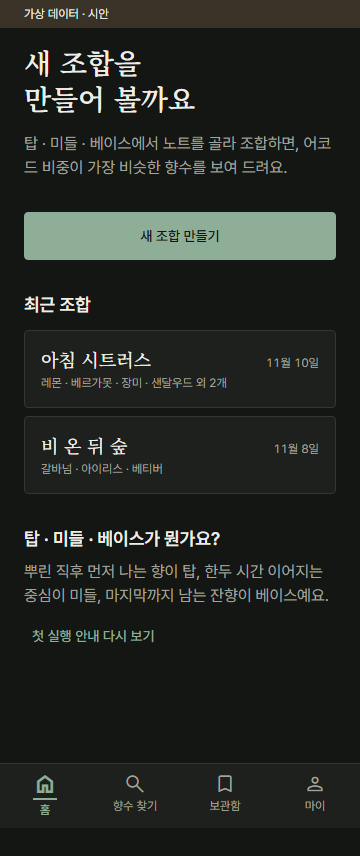
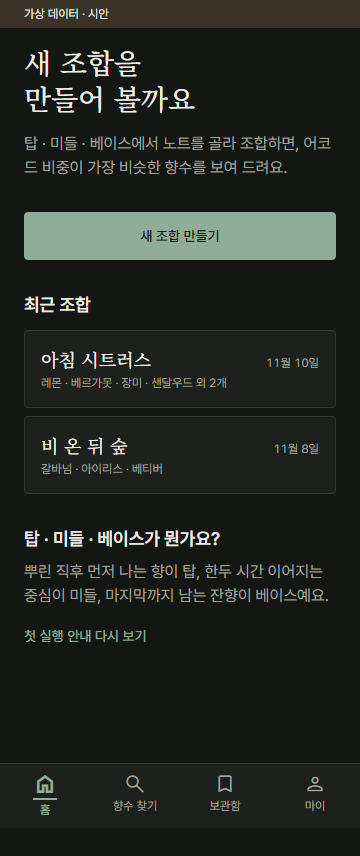
scent-studio: 5-0 시안 검토 반영 — 향수 막대 중립색(compare)·막대별 글자, 누르는 영역 48dp, 단계 표시 정리, 고른 칩 테두리 제거, PC 요약 추천 미리보기, 글꼴 용량 실측·받는 방식, design_rules.md로 이름 변경

diff --git a/apps/scent-studio/docs/design/mock.html b/apps/scent-studio/docs/design/mock.html
@@ -6,26 +6,26 @@
 <title>Perfumer-LAB 시안</title>
 <!-- 시안 전용(5-0). 토큰 값은 app/tailwind.config.js와 같다. 데이터는 모두 가상(누가 봐도 가짜인 이름). -->
 <link rel="preconnect" href="https://fonts.googleapis.com">
-<link href="https://fonts.googleapis.com/css2?family=Noto+Serif+KR:wght@500;600&display=block" rel="stylesheet">
+<link href="https://fonts.googleapis.com/css2?family=Noto+Serif+KR:wght@500&display=block" rel="stylesheet">
 <link href="https://cdn.jsdelivr.net/gh/orioncactus/pretendard@v1.3.9/dist/web/static/pretendard.min.css" rel="stylesheet">
 <link href="https://fonts.googleapis.com/css2?family=Material+Symbols+Outlined:opsz,wght,FILL,GRAD@24,300,0,0&display=block" rel="stylesheet">
 <style>
 :root{
   --bg:#F5F1E8;--surface:#FBF9F4;--surfaceAlt:#EDE7DA;--primary:#1F3D2E;--primaryHover:#2B5240;
   --accent:#B08D57;--accentStrong:#866634;--accentSoft:#E8DCC4;--text:#1C1C1A;--textSub:#62625E;
-  --onPrimary:#F5F1E8;--onAccent:#1C1C1A;--border:#D9D2C3;
+  --onPrimary:#F5F1E8;--onAccent:#1C1C1A;--border:#D9D2C3;--compare:#8C8275;
   --noteTop:#A8B5A0;--noteMiddle:#C9A9A0;--noteBase:#7A5C48;--onNoteTop:#1C1C1A;--onNoteMiddle:#1C1C1A;--onNoteBase:#F5F1E8;
 }
 @media (prefers-color-scheme: dark){:root{
   --bg:#141614;--surface:#1D201D;--surfaceAlt:#262A26;--primary:#8FAE98;--primaryHover:#A3C0AB;
   --accent:#C9A66B;--accentStrong:#C9A66B;--accentSoft:#3A3226;--text:#EFEDE6;--textSub:#A3A39E;
-  --onPrimary:#141614;--onAccent:#141614;--border:#333833;--onNoteTop:#141614;--onNoteMiddle:#141614;--onNoteBase:#EFEDE6;
+  --onPrimary:#141614;--onAccent:#141614;--border:#333833;--compare:#8A8378;--onNoteTop:#141614;--onNoteMiddle:#141614;--onNoteBase:#EFEDE6;
 }}
 *{box-sizing:border-box;margin:0;padding:0}
 html,body{background:var(--bg);color:var(--text);font-family:Pretendard,system-ui,sans-serif;font-size:16px;line-height:24px;font-variant-numeric:tabular-nums}
 .serif{font-family:"Noto Serif KR",serif}
-.display{font-family:"Noto Serif KR",serif;font-size:28px;line-height:36px;font-weight:600}
-.title{font-family:"Noto Serif KR",serif;font-size:22px;line-height:30px;font-weight:600}
+.display{font-family:"Noto Serif KR",serif;font-size:28px;line-height:36px;font-weight:500}
+.title{font-family:"Noto Serif KR",serif;font-size:22px;line-height:30px;font-weight:500}
 .headline{font-size:18px;line-height:26px;font-weight:600}
 .label{font-size:14px;line-height:20px;font-weight:500}
 .caption{font-size:12px;line-height:16px;color:var(--textSub)}
@@ -48,7 +48,7 @@ section{margin-top:32px}
 .btn{display:flex;align-items:center;justify-content:center;min-height:48px;padding:0 20px;border-radius:4px;font-size:14px;line-height:20px;font-weight:500;border:1px solid var(--primary)}
 .btn.pri{background:var(--primary);color:var(--onPrimary)}
 .btn.sec{color:var(--primary);background:transparent}
-.btn.txt{border:0;color:var(--primary);padding:0 8px;justify-content:flex-start}
+.btn.txt{border:0;color:var(--primary);padding:0 12px;margin-left:-12px;min-width:48px;justify-content:flex-start;display:inline-flex}
 .btns{display:flex;gap:8px;flex-wrap:wrap}.btns .btn{flex:1}
 .card{background:var(--surface);border:1px solid var(--border);border-radius:4px;padding:16px}
 .input{display:flex;align-items:center;gap:8px;background:var(--surfaceAlt);border-radius:4px;min-height:48px;padding:0 12px;color:var(--textSub)}
@@ -57,7 +57,7 @@ section{margin-top:32px}
 .chip.middle{background:var(--noteMiddle);color:var(--onNoteMiddle)}
 .chip.base{background:var(--noteBase);color:var(--onNoteBase)}
 .chip.line{background:transparent;border:1px solid var(--border);color:var(--text)}
-.chip.picked{outline:1px solid var(--text)}
+.chip{position:relative}.chip::after{content:"";position:absolute;inset:-6px 0}/* 보이는 36, 눌리는 48 */
 .chip.fam.on{background:var(--accentSoft);border-color:var(--accentStrong)}
 .ochip{display:inline-block;border:1px solid var(--border);border-radius:2px;padding:1px 6px;font-size:12px;line-height:16px;color:var(--textSub);margin:4px 4px 0 0}
 .ticks{display:inline-flex;gap:2px;align-items:flex-end}
@@ -69,12 +69,15 @@ section{margin-top:32px}
 .grade.r{color:var(--textSub);padding:0}
 .bar{height:6px;background:var(--surfaceAlt)}
 .bar>b{display:block;height:6px}
-.bar.me>b{background:var(--primary)}.bar.pf>b{background:var(--accent)}
+.bar.me>b{background:var(--primary)}.bar.pf>b{background:var(--compare)}
+.cmp{display:grid;grid-template-columns:52px 1fr 40px;gap:8px;align-items:center;margin-top:4px}
+.cmp .who{font-size:12px;line-height:16px;color:var(--textSub)}
+.sumgrid{display:block}.preview{display:none}
 .row{display:flex;justify-content:space-between;align-items:baseline;gap:8px}
 .num{text-align:right;font-variant-numeric:tabular-nums;white-space:nowrap}
 .hr{border-top:1px solid var(--border)}
 .seg{display:flex;border:1px solid var(--border);border-radius:4px;overflow:hidden}
-.seg span{flex:1;min-height:40px;display:flex;align-items:center;justify-content:center;font-size:14px;font-weight:500;color:var(--textSub)}
+.seg span{flex:1;min-height:48px;display:flex;align-items:center;justify-content:center;font-size:14px;font-weight:500;color:var(--textSub)}
 .seg span.on{background:var(--primary);color:var(--onPrimary)}
 .layertabs{display:flex;border-bottom:1px solid var(--border)}
 .layertabs span{flex:1;text-align:center;padding:12px 0;min-height:48px}
@@ -109,6 +112,9 @@ section{margin-top:32px}
   .page{max-width:1120px}
   .split{display:grid;grid-template-columns:400px 1fr;gap:32px;align-items:start}
   .split .detail{display:block;position:sticky;top:32px}
+  .sumgrid{display:grid;grid-template-columns:minmax(0,640px) 1fr;gap:40px;align-items:start}
+  .preview{display:block;position:sticky;top:32px}
+  .phone-only{display:none}
   .narrow{max-width:640px}
 }
 </style>
@@ -149,12 +155,12 @@ function home(){return `
  <div class="btn txt" style="margin-top:4px">첫 실행 안내 다시 보기</div></section>`}
 
 function notesScreen(){return `
-<div class="top">${icon("arrow_back")}<h1 class="headline">노트 고르기</h1><span class="caption" style="margin-left:auto">2 / 3단계</span></div>
+<div class="top">${icon("arrow_back")}<div><h1 class="headline">노트 고르기</h1><div class="caption">계열: 시트러스 · 그린</div></div></div>
 <div class="layertabs label"><span class="on">TOP 2</span><span>MIDDLE 2</span><span>BASE 2</span></div>
 <section style="margin-top:16px">
  <div class="input">${icon("search")}<span>노트 이름으로 찾기 (예: 베르가, berg)</span></div>
  <div style="margin-top:16px"><div class="caption">고른 노트 · 층마다 3개까지</div>
-  <span class="chip top picked">✓ 레몬 ${ticks(3)} 강</span><span class="chip top picked">✓ 베르가못 ${ticks(2)} 중</span></div>
+  <span class="chip top">✓ 레몬 ${ticks(3)} 강</span><span class="chip top">✓ 베르가못 ${ticks(2)} 중</span></div>
  <div class="card" style="margin-top:16px"><div class="row"><span class="headline serif">레몬</span><span class="caption">시트러스</span></div>
   <p class="caption" style="margin:4px 0 12px">밝고 시큼한 첫인상. 금방 날아가요.</p>
   <div class="seg" role="radiogroup" aria-label="레몬 강도"><span>약</span><span>중</span><span class="on">강</span></div></div>
@@ -167,7 +173,7 @@ function notesScreen(){return `
 
 function summary(){return `
 <div class="top">${icon("arrow_back")}<h1 class="headline">조합 요약</h1></div>
-<div class="narrow">
+<div class="sumgrid"><div class="narrow">
 <div class="rx">
  <div class="rx-head"><span class="title">아침 시트러스</span><span class="caption">노트 6개</span></div>
  ${["top","middle","base"].map(l=>`<div class="rx-layer"><div class="layer" style="padding-top:8px"><span class="dot" style="background:var(--note${l[0].toUpperCase()+l.slice(1)})"></span>${l.toUpperCase()}</div>
@@ -176,14 +182,18 @@ function summary(){return `
 <section><h2 class="headline">이 조합의 어코드</h2><p class="caption" style="margin-top:4px">메인 테마 추정치예요. 실제로 섞은 향을 예측한 값은 아니에요.</p>
  <div class="stack" style="margin-top:16px">${accords.map(([a,m])=>`<div><div class="row label"><span>${a}</span><span class="num">${m}%</span></div><div class="bar me" style="margin-top:4px"><b style="width:${m*2}%"></b></div></div>`).join('')}</div></section>
 <section><div class="hint">시트러스 느낌이 가장 앞서는 조합이에요. 베이스가 가벼워 잔향은 짧게 느껴질 수 있어요.</div></section>
-<section><div class="btns"><div class="btn pri">추천 보기</div></div><div class="btns" style="margin-top:8px"><div class="btn sec">노트 수정</div><div class="btn sec">저장</div></div></section>
-</div>`}
+<section><div class="btns phone-only"><div class="btn pri">추천 보기</div></div><div class="btns" style="margin-top:8px"><div class="btn sec">노트 수정</div><div class="btn sec">저장</div></div></section>
+</div>${preview()}</div>`}
+
+function preview(){return `<aside class="preview"><h2 class="headline">비슷한 향수 미리보기</h2><p class="caption" style="margin-top:4px">데이터상 유사도 상위 3개</p>
+ <div class="stack" style="margin-top:16px">${P.slice(0,3).map(([b,n,s,g,ac])=>`<div class="card"><div class="row"><span class="caption">${b}</span><span class="num label">${Math.round(s*100)}%</span></div><div class="row" style="margin-top:2px"><span class="serif" style="font-size:18px;line-height:26px;font-weight:500">${n}</span>${grade(g)}</div><div>${ac.map(x=>`<span class="ochip">${x}</span>`).join('')}</div></div>`).join('')}</div>
+ <div class="btns" style="margin-top:16px"><div class="btn pri">추천 전체 보기</div></div></aside>`}
 
 function recList(sel){return `
 <div class="top">${icon("arrow_back")}<h1 class="headline">비슷한 향수</h1></div>
 <p class="caption">아침 시트러스 · 데이터상 유사도 순</p>
 <div style="margin-top:8px" class="hr">${P.map(([b,n,s,g,ac],i)=>`<div class="rec ${sel&&i===0?'sel':''}"><span class="rank">${i+1}</span>
- <div><div class="caption" style="color:var(--textSub)">${b}</div><div class="headline serif" style="font-weight:600">${n}</div><div>${ac.map(a=>`<span class="ochip">${a}</span>`).join('')}</div></div>
+ <div><div class="caption" style="color:var(--textSub)">${b}</div><div class="serif" style="font-size:18px;line-height:26px;font-weight:500">${n}</div><div>${ac.map(a=>`<span class="ochip">${a}</span>`).join('')}</div></div>
  <div style="text-align:right"><div class="num label">${Math.round(s*100)}%</div><div style="margin-top:6px">${grade(g)}</div></div></div>`).join('')}</div>
 <p class="caption" style="margin-top:16px">가상 데이터로 만든 시안이에요.</p>`}
 
@@ -195,8 +205,7 @@ function detail(){const [b,n,s,g]=P[0];return `
  <span class="layer">MIDDLE</span><div><span class="chip middle">장미<span class="match">✓ 내 조합</span></span><span class="chip middle">은방울꽃</span></div>
  <span class="layer">BASE</span><div><span class="chip base">샌달우드<span class="match">✓ 내 조합</span></span><span class="chip base">앰버</span></div></div></section>
 <section><h2 class="headline">어코드 비교</h2>
- <div class="caption" style="margin-top:4px"><span class="dot" style="background:var(--primary)"></span>내 조합 <span class="dot" style="background:var(--accent);margin-left:12px"></span>이 향수</div>
- <div class="stack" style="margin-top:12px">${accords.map(([a,m,p])=>`<div><div class="row label"><span>${a}</span><span class="num">${m}% · ${p}%</span></div><div class="bar me" style="margin-top:4px"><b style="width:${m*2}%"></b></div><div class="bar pf" style="margin-top:2px"><b style="width:${p*2}%"></b></div></div>`).join('')}</div></section>
+  <div class="stack" style="margin-top:12px">${accords.map(([a,m,p])=>`<div style="margin-top:12px"><div class="label">${a}</div><div class="cmp"><span class="who">내 조합</span><div class="bar me"><b style="width:${m*2}%"></b></div><span class="num label">${m}%</span></div><div class="cmp"><span class="who">이 향수</span><div class="bar pf"><b style="width:${p*2}%"></b></div><span class="num label">${p}%</span></div></div>`).join('')}</div></section>
 <section><div class="btns"><div class="btn pri">찜하기</div><div class="btn sec">시향 기록</div></div>
  <div class="btn txt" style="margin-top:8px">추천이 이상해요</div>
  <p class="caption" style="margin-top:8px">데이터: 가상 샘플 · 강도는 함량이 아니라 커뮤니티가 느낀 강도예요.</p></section>`}

diff --git a/apps/scent-studio/app/tailwind.config.js b/apps/scent-studio/app/tailwind.config.js
@@ -1,4 +1,4 @@
-// 색·글꼴·간격 토큰. 기준: docs/design.md 3절(사장 결정 색) + docs/design/DESIGN.md(글꼴·크기·컴포넌트).
+// 색·글꼴·간격 토큰. 기준: docs/design.md 3절(사장 결정 색) + docs/design/design_rules.md(글꼴·크기·컴포넌트).
 // 화면 코드는 이 토큰 이름만 쓴다(색 값·임의 간격 금지). 다크는 시스템 설정을 따른다.
 /** @type {import('tailwindcss').Config} */
 const pair = (light, dark) => ({ DEFAULT: light, dark });
@@ -23,6 +23,7 @@ module.exports = {
         onPrimary: pair('#F5F1E8', '#141614'),
         onAccent: pair('#1C1C1A', '#141614'),
         line: pair('#D9D2C3', '#333833'), // border
+        compare: pair('#8C8275', '#8A8378'), // 어코드 비교의 "이 향수" 막대 (2026-11-11 사장: 골드 대신 중립색)
         noteTop: pair('#A8B5A0', '#A8B5A0'),
         noteMiddle: pair('#C9A9A0', '#C9A9A0'),
         noteBase: pair('#7A5C48', '#7A5C48'),

diff --git a/apps/scent-studio/docs/design/design_rules.md b/apps/scent-studio/docs/design/design_rules.md
@@ -1,0 +1,122 @@
+# Perfumer-LAB 디자인 규칙
+
+작성 2026-11-11 · 디자인팀 · 상태: **방향 OK(2026-11-11), 수정 7가지 반영 → 다시 검토 대기**
+
+> 색·컨셉·모양 원칙은 `docs/design.md` 3절(2026-10-30 사장 결정, 2026-11-11 `compare` 색 추가)이 기준이다. 이 문서는 그 위에 **글꼴·크기·간격·컴포넌트**를 정한다. 둘이 다르면 design.md 3절을 따른다.
+> 토큰은 `app/tailwind.config.js` 한 곳에 있다. 화면 코드는 토큰 이름만 쓴다(색 값·임의 간격 금지).
+> 시안: `docs/design/mock.html`(같은 토큰으로 그린 정적 시안), 캡처 `docs/design/shots/`(`node docs/design/capture.mjs [화면-폭-모드 …]`).
+> **파일 이름:** 처음에는 `docs/DESIGN.md`였다. 그런데 Windows는 대소문자를 구분하지 않아 `docs/design.md`(설계 문서)와 같은 파일이 된다. 그래서 `docs/design/design_rules.md`로 바꿨다(2026-11-11 사장 지시).
+
+## 0. 2026-11-11 시안 검토 반영 (사장)
+1. 어코드 비교에서 "이 향수" 막대를 골드에서 **중립 회갈색 `compare`**로 바꿨다. 골드는 "매우 비슷" 배지에만 쓴다(화면당 1~2곳).
+2. 비교 숫자는 색 없이도 읽히게 막대마다 **"내 조합 44%"·"이 향수 38%"**로 따로 쓴다.
+3. 누르는 영역은 **48dp 이상**이다(안드로이드 48, iOS 44를 함께 만족). 노트 칩·글자 버튼은 글자 크기를 그대로 두고 눌리는 영역만 키운다(6절).
+4. 노트 고르기의 "2 / 3단계"는 TOP 탭과 헷갈려서 뺐다. 대신 제목 아래에 **고른 계열**을 보여 준다("계열: 시트러스 · 그린").
+5. 고른 노트 칩의 진한 테두리를 뺐다. 체크 표시와 강도 글자로 구분한다.
+6. 다크 모드 보조 글씨(`textSub` `#A3A39E`) 대비를 확인했다: bg 7.2 · surface 6.5 · surfaceAlt 5.8 · accentSoft 4.98 → **모두 4.5:1 이상이라 그대로 둔다**. 라이트는 bg 5.4 · surface 5.8 · surfaceAlt 5.0 · accentSoft 4.51.
+7. PC 조합 요약 오른쪽에 **추천 미리보기(상위 3개)**를 둔다(4절).
+
+## 1. 한 가지 강조: "조합 처방전"
+- 이 앱에서 기억에 남는 것은 **하나**다. 조합 요약을 조향사의 처방전처럼 보여 준다.
+  - 층(TOP · MIDDLE · BASE)마다 한 줄씩 쓴다.
+  - 노트 이름은 세리프로 쓴다.
+  - 강도는 짧은 세로 눈금(1~3개)과 글자(약·중·강)를 함께 쓴다.
+- 다른 화면은 조용하게 둔다: 크림 바탕, 가는 선, 넉넉한 여백. 골드는 화면마다 1~2곳만 쓴다(매우 비슷 배지, 선택됨).
+
+## 2. 글꼴
+| 역할 | 글꼴 | 굵기 | 라이선스 | 쓰는 곳 |
+|---|---|---|---|---|
+| 제목(세리프) | **Noto Serif KR** | **500 하나만** | OFL | 화면 제목, 향수 이름, 처방전의 노트 이름 |
+| 본문(고딕) | **Pretendard** | 400·500·600 | OFL | 본문, 버튼, 라벨, 숫자 |
+
+- 세리프는 용량 때문에 굵기를 **하나(500)**만 쓴다(2-1). 제목은 크기로 위계를 만든다.
+- 숫자는 Pretendard 고정폭 숫자(`tabular-nums`)로 쓴다.
+- 영문 층 라벨(TOP · MIDDLE · BASE)만 대문자에 넓은 자간(0.12em)을 쓴다(design.md 3-4). 다른 라벨은 대문자로 쓰지 않는다.
+
+### 2-1. 글꼴 용량과 받는 방식 (2026-11-11 실측)
+| 파일 | 원본 | 서브셋(KS X 1001 한글 2,350자 + 라틴·문장부호) |
+|---|---|---|
+| Noto Serif KR (가변 → 굵기 하나로 고정) | ttf 23.8MB · 굵기 하나 woff2 3.1~3.2MB | **woff2 355KB(500) / 333KB(600)** · ttf 1.43MB |
+| Pretendard (굵기 하나) | woff2 766KB · otf 1.57MB | **woff2 267KB**(공식 subset) · otf 351KB |
+
+- **웹(Expo 웹·GitHub Pages)**:
+  - Pretendard는 **공식 "동적 서브셋"**(`pretendard-dynamic-subset`, 글자 범위별로 92조각, `unicode-range`)을 **우리 서버에 같이 올려** 쓴다. 브라우저가 화면에 나온 글자의 조각만 받으므로 첫 화면은 보통 100~200KB다.
+  - Noto Serif KR은 **500 하나를 2,350자 서브셋 woff2(355KB)**로 만들어 같이 올린다.
+  - 둘 다 `font-display: swap`으로 쓴다. 받기 전에는 시스템 글꼴로 먼저 보여 준다.
+  - 외부 글꼴 CDN(구글 폰트 등)은 쓰지 않는다. 오프라인(E2)에서도 캐시된 글꼴을 쓰고, 방문자 정보를 바깥에 보내지 않기 위해서다.
+- **앱(안드로이드·아이폰, `expo-font`)**:
+  - 서브셋 ttf/otf를 앱에 넣는다. Pretendard 3굵기 약 1.05MB + Noto Serif KR 500 1.43MB = **약 2.5MB**.
+  - 앱에서는 woff2를 쓸 수 없다.
+- **2,350자 밖 글자**(드문 한글 "똠·햏" 등, 다른 문자)는 시스템 글꼴로 대신 보인다. 노트·화면 문구는 모두 2,350자 안이다(빌드 때 검사).
+- 서브셋 만들기: `fonttools`(`pyftsubset`) 스크립트 `app/scripts/build-fonts.py`(5-2에서). 원본 글꼴과 OFL 라이선스 파일을 `app/assets/fonts/`에 함께 둔다. 오픈소스 라이선스 화면(K5)에도 적는다.
+- 시안 `mock.html`은 확인용이라 CDN을 쓴다(앱 코드와 무관).
+
+## 3. 글자 크기 (dp = 웹 px)
+| 토큰 | 크기 / 줄 높이 | 굵기 | 글꼴 | 쓰는 곳 |
+|---|---|---|---|---|
+| `display` | 28 / 36 | 500 | 세리프 | 화면 맨 위 제목(홈, 요약) |
+| `title` | 22 / 30 | 500 | 세리프 | 향수 이름(상세), 처방전 제목 |
+| `headline` | 18 / 26 | 600 | 고딕 | 절 제목 |
+| `body` | 16 / 24 | 400 | 고딕 | 본문, 목록 |
+| `label` | 14 / 20 | 500 | 고딕 | 버튼, 칩, 탭, 입력창 |
+| `caption` | 12 / 16 | 400 | 고딕 | 보조 설명, 출처 (가장 작은 글자) |
+| `layer` | 12 / 16 | 600, 자간 0.12em, 대문자 | 고딕 | TOP · MIDDLE · BASE만 |
+
+- 한 줄은 폰에서 화면 폭, PC에서 **최대 640px**다.
+- 글자 크기 200%: 모든 글자는 시스템 배율을 따른다. 줄이 넘치면 내려가고, 영역은 세로로 스크롤되고, 버튼은 높이를 늘린다(5-8에서 실제 화면으로 확인).
+
+## 4. 간격과 배치
+- 8dp 단위: 4 · 8 · 12 · 16 · 24 · 32 · 48.
+- 폰 좌우 여백은 **24**다. 절 사이 32, 절 안 16, 줄 사이 8.
+- **폰(1023 이하)**: 하단 탭 4개(홈 · 향수 찾기 · 보관함 · 마이).
+- **PC(1024 이상)**: 왼쪽 메뉴(폭 240). 본문 최대 폭 1120.
+  - 목록 → 상세는 **나란히**(목록 400 + 상세 나머지, 승인 H5).
+  - **조합 요약은 두 칸**이다: 왼쪽 처방전·어코드(최대 640), 오른쪽 **추천 미리보기 상위 3개**(카드 3장 + [추천 전체 보기]). 폰에서는 미리보기 없이 [추천 보기] 버튼만 둔다.
+- 정렬: 글자는 왼쪽, 숫자(점수·%)는 오른쪽. 가운데 정렬은 빈 화면 문장 한 줄에만.
+
+## 5. 모양
+- 모서리: 카드·시트·입력창·버튼 **4**, 칩 **2**. 알약 모양 없음.
+- 선: 1dp `line`. 그림자는 시트에만 아주 옅게 한 단계.
+- 아이콘: Material Symbols Outlined, 굵기 300, 크기 24. 채운 아이콘 없음.
+- 움직임: 시트·패널 200ms 슬라이드, 화면 전환 150ms 페이드. "움직임 줄이기" 설정이면 없앤다.
+
+## 6. 컴포넌트
+**누르는 영역 규칙(모두):** 눌리는 곳은 **가로·세로 48dp 이상**이다. 보이는 크기가 더 작으면(칩 36, 글자 버튼) 앱은 `hitSlop`, 웹은 투명한 바깥 여백(`::after`)으로 영역만 키운다. 이웃한 누르는 곳끼리 영역이 겹치지 않게 칩 사이를 12dp 띄운다.
+
+| 이름 | 생김새 | 상태 |
+|---|---|---|
+| **버튼(주)** | `primary` 바탕, `onPrimary` 글자, 높이 48, 모서리 4 | 누름 `primaryHover` · 끔 `surfaceAlt`+`inkSub` · 작업 중 "저장하는 중" |
+| **버튼(보조)** | 투명 바탕, 1dp `primary` 테두리, `primary` 글자, 높이 48 | 같음 |
+| **글자 버튼** | `primary` 글자(밑줄 없음). 보이는 건 글자뿐, **눌리는 영역은 높이 48 · 좌우 12 여백**("추천이 이상해요", "첫 실행 안내 다시 보기") | 포커스 2dp `accentStrong` 테두리 |
+| **노트 칩** | 층 색 바탕(`noteTop`·`noteMiddle`·`noteBase`)과 그 위 글자색, 모서리 2. **보이는 높이 36, 눌리는 높이 48** | 고름: 앞에 체크 ✓ + 강도 눈금·글자(**테두리 없음**) |
+| **강도 표시** | 세로 눈금 3칸(2×12, 간격 2). 약 1 · 중 2 · 강 3칸이 칠해지고 옆에 "약·중·강" 글자 | 화면 읽기: "레몬, 강" |
+| **강도 고르기** | 3칸 구분 버튼(약·중·강), 칸마다 높이 48 | 고름: `primary` 바탕 |
+| **계열 칩** | 테두리만(1dp `line`), 계열 색 없음 | 고름: `accentSoft` 바탕 + `accentStrong` 테두리 + 체크 |
+| **어코드 칩** | 테두리만, `caption` 크기(누르지 않음) | — |
+| **어코드 막대(비교)** | 어코드 이름 한 줄 아래에 막대 두 줄. 줄마다 **[누구 라벨] [막대 6dp] [숫자%]**: "내 조합" `primary` 막대, "이 향수" **`compare`** 막대. 각진 끝 | 화면 읽기: "시트러스, 내 조합 44퍼센트, 이 향수 38퍼센트" |
+| **어코드 막대(내 조합만)** | 요약 화면: 이름·숫자 한 줄 + `primary` 막대 | — |
+| **등급 표시** | 매우 비슷: `accent` 바탕 + `onAccent` 글자(**화면의 골드는 여기**) · 비슷: 1dp `accentStrong` 테두리+글자 · 참고: `inkSub` 글자만 | 글자가 늘 함께 |
+| **카드** | `surface`, 1dp `line`, 모서리 4, 안쪽 16 | 누름 `surfaceAlt` |
+| **입력창(검색)** | `surfaceAlt`, 높이 48, 모서리 4, 왼쪽 선 아이콘 | 포커스 1dp `primary` 테두리 |
+| **하단 탭** | `surface`, 위 1dp 선, 탭 4개(아이콘 + `label`), 탭마다 높이 56 | 선택: `primary` 글자 + 굵게 + 아이콘 아래 2dp 선 |
+| **층 탭(노트 고르기)** | TOP · MIDDLE · BASE + 고른 개수, 높이 48 | 선택: 아래 2dp `primary` 선 |
+| **시트(폰)/패널(PC)** | 노트 카드·확인 창 | 바깥 누르면 닫힘, 닫기 버튼 |
+| **서버 안내 줄** | 화면 위 `accentSoft` 띠: "서버를 깨우는 중이에요. 30초쯤 걸릴 수 있어요" + [다시 시도] | 3초 넘으면(E4) |
+
+## 7. 네 가지 상태 (모든 화면)
+- **불러오는 중**: 내용 자리에 `surfaceAlt` 막대(움직임 없음)와 한 줄 설명을 둔다.
+- **내용 있음**: 위 규칙대로 보여 준다.
+- **비어 있음**: 차분한 문장 한 줄과 버튼 하나. 예: "저장한 조합이 아직 없어요." + [새 조합 만들기]
+- **오류**: 무엇이 안 됐는지와 할 일을 쓴다. 예: "인터넷 연결이 끊겨 저장하지 못했어요. 연결되면 다시 눌러 주세요." + [다시 시도]. 사과하는 말은 넣지 않는다.
+
+## 8. 문구
+- 존댓말로 짧게 쓴다. 버튼은 하는 일을 그대로 말한다: [추천 보기], [저장], [찜하기]/[찜 해제], [계정 삭제]. 결과도 같은 말로 알린다("저장했어요").
+- 단정하지 않는다: "데이터상 유사도", "메인 테마 추정치". 이모지·느낌표·유행어는 쓰지 않는다.
+- 데이터 출처: 실제 카탈로그는 "Parfumo · Fragrantica(Decant)"라고 쓴다. 샘플은 화면 위에 "가상 데이터"를 표시한다(`plan_b_portfolio.md` 1-7).
+
+## 9. 접근성 확인
+- 글자 대비 AA: 토큰 표의 짝만 쓴다. 0절 6번 측정값을 따른다.
+- 그래픽(막대·칩)은 3:1 이상이다. `compare` 막대는 막대 바탕(`surfaceAlt`) 대비 3.1:1(라이트)·3.9:1(다크).
+- 누르는 곳 48dp 이상(6절). 포커스 테두리 2dp `accentStrong`.
+- 색만으로 뜻을 전하지 않는다: 선택은 체크로, 등급·강도·막대 주인은 글자로 함께 나타낸다.
+- 캡처: 라이트·다크 × 360·412·1280 × 글자 200%(화면별, 5-2부터 실제 화면으로).

diff --git a/apps/scent-studio/docs/design.md b/apps/scent-studio/docs/design.md
@@ -59,7 +59,7 @@ flowchart LR
 | 넓은 화면(PC) | 프론트엔드팀 | 화면 너비 1024px 이상이면 하단 탭 → 왼쪽 메뉴, 목록·상세 나란히, 노트 카드는 옆 패널(같은 컴포넌트, 배치만 다름) |
 | 오프라인 | 프론트엔드팀 | 폰 앱: 카탈로그를 앱에 넣음. 웹: 내보낸 정적 파일과 카탈로그를 서비스 워커로 캐시(Workbox) → 한 번 연 뒤 인터넷 없이 됨. "홈 화면에 추가"용 웹 앱 매니페스트 |
 | 로그인 | 프론트엔드팀 + 백엔드팀 | 앱: Supabase JS 클라이언트(Auth만) + 구글 OAuth(PKCE, 웹·폰 같은 코드). 로그인 방법을 목록으로 두어 앱스토어 때 애플 로그인(Supabase 지원)을 한 줄 더하면 되게 한다. 서버: Spring Security가 Supabase JWT를 공개키(JWKS)로 검증 |
-| 디자인 | 디자인팀 | `docs/design/DESIGN.md` + **NativeWind**(React Native용 Tailwind). 색·간격은 `tailwind.config.js` 토큰 한 곳. 시안 캡처는 Playwright로 웹 화면을 폰·PC 크기로 찍음 |
+| 디자인 | 디자인팀 | `docs/design/design_rules.md` + **NativeWind**(React Native용 Tailwind). 색·간격은 `tailwind.config.js` 토큰 한 곳. 시안 캡처는 Playwright로 웹 화면을 폰·PC 크기로 찍음 |
 | 추천 엔진 | 백엔드팀 | **`app/src/engine/` 순수 TypeScript, 의존성 없음.** 8절 명세 그대로, Python 참조 엔진이 만든 같은 골든 파일로 결과가 같은지 확인. 1차에는 기기만 추천을 계산한다 |
 | 서버 | 백엔드팀 | Java 21 + Spring Boot 4, Spring Web, Spring Data JPA, Flyway, Spring Security(OAuth2 Resource Server), springdoc-openapi |
 | DB · 로그인 | 백엔드팀 | Supabase를 **Postgres 호스팅과 구글 로그인으로만** 사용. 앱은 DB에 직접 붙지 않는다(12절) |
@@ -95,7 +95,7 @@ flowchart LR
 
 ## 3. 디자인 방향과 앱 화면 원칙
 > 2026-10-30 사장 결정: 사장이 준 컬러 시스템을 쓴다. Claude가 대비를 계산해 고친 4곳과 "계열 색 없음"은 사장이 OK했다.
-> 디자인팀은 4단계 시작에 이 절을 바탕으로 `docs/design/DESIGN.md`(글꼴 크기·간격·컴포넌트 규칙)를 쓰고 시안 캡처로 검토받는다. **이 절과 DESIGN.md가 다르면 이 절이 기준이다.**
+> 디자인팀은 4단계 시작에 이 절을 바탕으로 `docs/design/design_rules.md`(글꼴 크기·간격·컴포넌트 규칙)를 쓰고 시안 캡처로 검토받는다. **이 절과 DESIGN.md가 다르면 이 절이 기준이다.**
 
 ### 3-1. 컨셉
 **니치 향수 브랜드 감성(딥티크·조 말론 계열).** 크림 바탕 + 딥 그린 기준색 + 골드 포인트 하나. 색은 적게, 채도는 낮게.
@@ -111,7 +111,7 @@ flowchart LR
 | surfaceAlt | `#EDE7DA` 진한 크림 | `#262A26` | 구분 영역, 입력창 |
 | primary | `#1F3D2E` 딥 포레스트 그린 | `#8FAE98` | 주요 버튼, 헤더, **내 조합** 막대 |
 | primaryHover | `#2B5240` | `#A3C0AB` | 누르는 중 |
-| accent | `#B08D57` 앤티크 골드 | `#C9A66B` | **칠하는 용도만**: 선택됨 배경, "가장 비슷한 향수", **향수** 막대 |
+| accent | `#B08D57` 앤티크 골드 | `#C9A66B` | **칠하는 용도만**: 선택됨 배경, "가장 비슷한 향수"(매우 비슷 배지). ~~향수 막대~~ → compare(2026-11-11) |
 | accentStrong ★ | `#866634` | `#C9A66B` | 골드 **글자·아이콘·선택 테두리** (라이트에서 원래 골드는 대비 2.7:1이라 따로 둠) |
 | accentSoft | `#E8DCC4` | `#3A3226` | 골드 배경 틴트 |
 | text | `#1C1C1A` | `#EFEDE6` | 본문 |
@@ -119,19 +119,20 @@ flowchart LR
 | onPrimary | `#F5F1E8` | `#141614` | primary 위 글자 |
 | onAccent ★ | `#1C1C1A` | `#141614` | accent 위 글자 (다크에서 밝은 글자는 2.0:1이라 늘 진한 글자) |
 | border | `#D9D2C3` | `#333833` | 구분선 (장식용. 이것만으로 뜻을 전하지 않음) |
+| compare ★★ | `#8C8275` 회갈색 | `#8A8378` | **어코드 비교의 "이 향수" 막대**(2026-11-11 사장 결정: 골드 대신 중립색. 막대 바탕 대비 3.1·3.9:1) |
 | noteTop | `#A8B5A0` 세이지 | 같음 | 탑 칩·그래프만 |
 | noteMiddle | `#C9A9A0` 더스티 로즈 | 같음 | 미들 칩·그래프만 |
 | noteBase | `#7A5C48` 우드 브라운 | 같음 | 베이스 칩·그래프만 |
 | onNoteTop / onNoteMiddle ★ | `#1C1C1A` | `#141614` | 탑·미들 칩 위 글자 (8:1 안팎) |
 | onNoteBase ★ | `#F5F1E8` | `#EFEDE6` | 베이스 칩 위 글자 (5:1 이상) |
 
-★ = Claude가 대비 계산(WCAG)으로 더하거나 고친 것. 나머지는 사장이 준 값 그대로다.
+★ = Claude가 대비 계산(WCAG)으로 더하거나 고친 것. ★★ = 2026-11-11 시안 검토에서 사장 지시로 더한 것. 나머지는 사장이 준 값 그대로다.
 
 ### 3-3. 색 쓰는 규칙
 - 화면 비율: 배경·서피스 70% · primary 20% · accent 10% 이하
 - 골드는 "선택됨", "가장 비슷한 향수" 같은 핵심 1~2곳에만 쓴다
 - **계열 색은 두지 않는다.** 계열(시트러스, 우디 …)은 늘 글자로 보여 준다
-  - 어코드 비교 막대: 내 조합 = primary, 향수 = accent. 두 색만 쓰고, 막대마다 어코드 이름과 %를 글자로 함께 쓴다
+  - 어코드 비교 막대: 내 조합 = primary, 향수 = **compare(회갈색)**. 막대마다 "내 조합 44%"·"이 향수 38%"처럼 **누구의 값인지 글자로** 함께 쓴다(색 없이도 읽힘). 2026-11-11 사장 결정: 골드는 "매우 비슷" 배지에만 써서 화면당 1~2곳 규칙을 지킨다
   - 향수 카드: 브랜드·이름 + 상위 어코드 3개를 글자 칩(테두리만 있는 칩)으로 보여 준다
 - 노트 색 3개는 탑·미들·베이스 구분에만 쓴다(칩, 피라미드, 그래프). 버튼에는 쓰지 않는다
 - 그라데이션은 쓰지 않는다. 그림자는 아주 옅은 한 단계만, 되도록 1dp 선으로 구분한다
@@ -151,7 +152,7 @@ flowchart LR
 | 빈 화면 | 차분한 문장 한 줄 + 버튼 하나 | 일러스트, 귀여운 캐릭터 |
 | 문구 | 차분한 존댓말. "데이터상 유사도", "메인 테마 추정치"처럼 단정하지 않는 말 | 느낌표 남발, 이모지, 유행어 |
 
-- 글꼴은 디자인팀이 DESIGN.md에서 정한다. 앱에 넣는 글꼴은 무료 라이선스(OFL 등)만 쓴다(후보: 제목 Noto Serif KR 또는 마루 부리, 본문 Pretendard)
+- 글꼴은 디자인팀이 `docs/design/design_rules.md`에서 정한다. 앱에 넣는 글꼴은 무료 라이선스(OFL 등)만 쓴다(후보: 제목 Noto Serif KR 또는 마루 부리, 본문 Pretendard)
 
 ### 3-5. 공통 원칙
 - 단위 dp는 웹에서 같은 값의 px로 쓴다(React Native는 dp, 웹은 CSS px로 자동 대응)
@@ -434,7 +435,7 @@ flowchart LR
 | M2 | 백엔드 | ~~Java `engine` 모듈~~(10-30 완료, 10-31 E안으로 교체) → **TypeScript 엔진** `app/src/engine/` + 같은 골든·성질 테스트(Vitest) | 골든·성질 테스트 통과 |
 | ★ | 백엔드 | **사장 검토**: 저장할 데이터·기능 목록 + 엔진 합격 기준표 | OK |
 | M3 | 백엔드 | Spring 서버: 보안, 사용자 API, 계정 삭제, 사용 기록, 카탈로그 배포 | 서버 테스트 통과 |
-| ★ | 디자인 | **사장 검토**: DESIGN.md + Playwright 시안 캡처(폰·PC) | OK |
+| ★ | 디자인 | **사장 검토**: `docs/design/design_rules.md` + Playwright 시안 캡처(폰·PC) | OK |
 | M4 | 프론트 | 앱: 카탈로그·새 조합 흐름(S02→S06) 먼저 → S07·S08 → 로그인·보관함·마이 | 승인 목록 통과 |
 | M5 | 프론트 | 사용 기록, 오류·빈 상태, 웹 오프라인·홈 화면 추가, EAS 안드로이드 빌드, 개인정보·삭제 안내 페이지 | 폰 앱 확인 통과 |
 

diff --git a/apps/scent-studio/docs/plan.md b/apps/scent-studio/docs/plan.md
@@ -20,7 +20,7 @@
 | ★ | 백엔드 | **엔진 마무리 사장 결정**: 레몬 "강" 문제(프로필 방식 × 강 값 비교표, `evaluate.py` 방식으로 재측정) → 블라인드 비교 → 눈으로 평가 (HANDOFF "다음 세션에서 할 일" 1·2) | 사장 OK, 기준(재현 15, 블라인드 6/10, 눈 3.5) 통과 |
 | 3 | 백엔드 | **DB 구축** (design.md 12·12-1절, 저장할 데이터 목록은 2026-10-30 사장 OK). ① 표 만들기: Flyway 마이그레이션 `backend/src/main/resources/db/migration/V1__init.sql` — `app` 스키마에 `user_preferences`·`blends`·`favorites`·`tasting_feedback`·`events` 5개 표, 필수값·범위 검사(만족도 1~5, 메모 500자, 이름 40자, 층·강도 값), `user_id` 인덱스, 찜은 (user_id, perfume_key) 중복 불가 ② 막기: 모든 표 RLS 켜고 정책 없음(앱의 공개 키로는 아무것도 못 읽음), `app` 스키마는 공개 API에 노출 안 함, 서버 전용 DB 계정 ③ 테스트 DB: 내장 Postgres(zonky, Docker 불필요)로 마이그레이션이 처음부터 끝까지 돌고, 검사 규칙이 잘못된 값을 막는지 확인 ④ 실제 DB: 사장이 Supabase 프로젝트를 만들고(무료, 서울 지역) 접속 정보를 `.env`에만 넣음(`.env.example`에 이름만) → 서버를 처음 켜면 Flyway가 표를 만듦 → 구글 로그인 켜기 ⑤ 운영: 7일 쉬면 일시 정지되므로 하루 한 번 깨우는 GitHub Actions 예약 작업, 무료 요금제 백업 한계를 NOTES에 기록 | 내장 Postgres로 마이그레이션·검사 테스트 통과. 실제 Supabase에 표 5개가 생기고 공개 키로 읽기가 막힌 것을 확인 |
 | 4 | 백엔드 | Spring 서버 `backend/`(Spring Boot 4.1, Java 21): 보안(JWT/JWKS, 사용자 id는 토큰에서만), 사용자 API(11절: 설정·조합·찜·피드백), 계정 삭제(한 번에 내 데이터 전부 + Supabase 계정, 사용 기록은 익명으로), 사용 기록 받기, 카탈로그 배포 + 서버 테스트(토큰 없으면 401, 남의 데이터 못 읽음, 잘못된 입력 400, 삭제 후 데이터 없음) | `./gradlew test` 통과, `run.sh`에 추가 |
-| ★ | 디자인 | `docs/design/DESIGN.md`(design.md 3절 토큰 → `tailwind.config.js`) + Playwright 시안 캡처(라이트·다크, 폰·PC) | 사장 OK |
+| ★ | 디자인 | `docs/design/design_rules.md`(design.md 3절 토큰 → `tailwind.config.js`) + Playwright 시안 캡처(라이트·다크, 폰·PC) | 사장 OK |
 | 5 | 프론트 | 화면: 카탈로그 불러오기 → 새 조합 흐름 S02~S06 → S07·S08 → 로그인(Supabase, 구글, 방법 목록 구조)·보관함·마이 → PC 넓은 배치(왼쪽 메뉴, 목록·상세 나란히, 옆 패널) | 승인 목록 41/41 |
 | 6 | 프론트 | 사용 기록, 오류·빈 상태, 웹 오프라인(서비스 워커)·홈 화면 추가(매니페스트, 이름 Perfumer-LAB), EAS 안드로이드 빌드 설정, 개인정보·계정 삭제 안내 페이지 | 승인 목록 그대로 통과 + 폰 앱 확인(6단계 전) |
 
@@ -29,7 +29,7 @@
 - 외부 계정(Supabase 프로젝트, Expo 계정, Play 개발자 계정)이 필요한 순간에는 멈추고 사장에게 `!` 한 줄 또는 만드는 방법을 부탁한다. 키는 대화창에 붙이지 않게 안내한다.
 
 ## 고칠·만들 주요 파일
-- 새로: `app/`(Expo: `app/`(라우트), `src/engine/`, `src/ui/testIds.ts`, `src/strings.ko.ts`, `tailwind.config.js`, `app.json`(이름·ID), `eas.json`, `playwright.config.ts`, `vitest.config.ts`, `tests/acceptance/*.spec.ts`, `tests/unit/*.test.ts`), `backend/`, `docs/design/DESIGN.md`
+- 새로: `app/`(Expo: `app/`(라우트), `src/engine/`, `src/ui/testIds.ts`, `src/strings.ko.ts`, `tailwind.config.js`, `app.json`(이름·ID), `eas.json`, `playwright.config.ts`, `vitest.config.ts`, `tests/acceptance/*.spec.ts`, `tests/unit/*.test.ts`), `backend/`, `docs/design/design_rules.md`
 - 고침: `tests/run.sh`, `docs/plan.md`(이 계획으로 교체), `docs/spec.md`(앱 이름·ID), `HANDOFF.md`, `docs/NOTES.md`
 - 지움(단계 2 뒤): `engine/`, `settings.gradle.kts`, 루트 `build.gradle.kts`·`gradle/`·`gradlew*`·`gradle.properties`(서버는 `backend/` 안에 자체 Gradle)
 - 재사용: 이름표 `git show 0a2788a:apps/scent-studio/app/src/main/java/com/perfumerlab/scentstudio/ui/Tags.kt`, 가짜 서버 동작 `.../acceptance/harness/FakeUserServer.kt`, Java 엔진·테스트(옮길 원본), `pipeline/build_catalog.py --fixture`, `pipeline/make_golden.py`
@@ -60,7 +60,7 @@
 |---|---|---|---|
 | 3 DB | 표 5개 마이그레이션, 접근 막기(RLS), 내장 Postgres 테스트, 실제 Supabase 연결, 일시 정지 방지 예약 작업 | 3~4회 (사장이 Supabase 프로젝트 생성) | 카탈로그 크기 줄이기 (방향은 이때 정하고, 배포 방식에 맞추는 일은 단계 4) |
 | 4 서버 | Spring 서버, 로그인 토큰 확인, 설정·조합·찜·피드백 API, 계정 삭제, 사용 기록, 카탈로그 배포 | 3~5회 | `SCENT_KEY_SECRET` 보관 확인, 민감 파일 수정 뒤 레드팀 표시 관리, **오류 신고 표**(이름 오류 등 사용자 신고), **카탈로그 버전·최소 앱 버전 정보 보관 방식**, **저장·찜·시향 기록·취향 합치기 사용자별 분당 요청 제한** (`db_design.md` 14절) |
-| ★ 디자인 | `DESIGN.md`, 시안 캡처(라이트·다크, 폰·PC) | 2~3회 (사장 검토) | 없음 |
+| ★ 디자인 | `docs/design/design_rules.md`, 시안 캡처(라이트·다크, 폰·PC) | 2~3회 (사장 검토) | 없음 |
 | 5 화면 | 새 조합 흐름, 추천·상세, 로그인·보관함·마이, PC 넓은 배치, 승인 목록 41/41 | 6~10회 | H1·H2 글자 잘림, 같은 해 분리 행 묶기, 이름 표기 중복, 번역 안 된 노트, 같은 노트 여러 층 표시, 추정 표시 노출 방식, **서버가 깨어나는 30~90초 동안 저장·찜을 누르면 "연결 중" 안내 → 실패하면 다시 시도(추천·상세 화면은 서버 없이 바로 뜨게)** (2026-11-06 사장 지시, `server_design.md` 6-2), **등급 문구 보여 주는 방식**(자연스러운 조합에서 Top 10의 절반 가까이가 "매우 비슷": 비교 24조합 Top 10 중 47.5%, `engine_grade_v8.md`. 기준값은 동결이라 바꾸지 않고 문구·표시만 정한다) |
 
 ## 출시 직전 확인 항목 (2026-11-06, 6단계 QA 보고·스토어 공개 전에 모두 ✓)

diff --git a/apps/scent-studio/HANDOFF.md b/apps/scent-studio/HANDOFF.md
@@ -6,7 +6,7 @@
 리뷰 기준: 8bb26d4 (묶음 9 시작 직전)
 결과: 파이프라인 121/121 · TS 엔진(Vitest) 37/37 · 서버·DB(JUnit + 내장 Postgres) 639/639 통과 + 레드팀 도구 1 건너뜀 (2026-11-11 확인, `bash tests/run.sh`, 묶음 9 레드팀 1번 고침 포함). **승인 목록 1/41 (2026-11-09 승인으로 56개가 됨: J1~J8·K1~K7 추가, 화면 단계에서 테스트 코드 작성)** (`cd app && npx playwright test`, 2026-11-05 직접 확인. 화면 전이라 40개 실패는 정상 — run.sh에는 41/41이 되면 넣는다)
 사용자에게 남은 질문: 없음
-다음 할 일: **5-0 디자인 시안 사장 검토 대기**(`docs/design/DESIGN.md`, `docs/design/shots/`). OK 뒤 5-1 카탈로그. 일정: 11-14 Fragrantica 추가 메일 → 11-18 Parfumo 추가 메일 → **11-25 Plan A/B 결정**. 다른 컴퓨터에서는 비공개 저장소 `pipeline-data-out/private_docs/`를 `pipeline/data/out/private_docs/`에 복사
+다음 할 일: **5-0 디자인 시안 사장 검토 대기**(`docs/design/design_rules.md`, `docs/design/shots/`). OK 뒤 5-1 카탈로그. 일정: 11-14 Fragrantica 추가 메일 → 11-18 Parfumo 추가 메일 → **11-25 Plan A/B 결정**. 다른 컴퓨터에서는 비공개 저장소 `pipeline-data-out/private_docs/`를 `pipeline/data/out/private_docs/`에 복사
 
 ## ★ 다음 세션 시작 (2026-11-11 — 묶음 9 서버 끝, 공개 저장소 데이터 정리 끝, 단계 5 계획 사장 검토 대기, 11-25 Plan A/B 결정)
 1. **오늘 한 것:** OpenAPI 정리(3bd0961, `docs/openapi.json`) → Render 3bd0961 배포·확인 → 전체 API 10분 재측정 **RSS 최대 208MB / 기준 420MB** → IP 확인(`TRUSTED_PROXY_HOPS=1` 맞음, 두 줄 보내도 실제 IP 맨 오른쪽) → 레드팀(26/26 주소, 뚫림 1: 틀린 토큰 IP 막기가 같은 IP 정상 사용자도 막음) → 사장 결정 "틀린 토큰만 막기"로 고침(8fb9e0a) → Render 배포·재공격 막힘 → 측정용 환경 변수 4개 삭제(사장)·`.env` DEBUG_TOKEN 비움 → `.redteam-needed` 지움 → 배포 전 체크리스트 12개. 자세히는 NOTES "묶음 9", `docs/redteam.md`, `docs/review.md`.

diff --git a/apps/scent-studio/docs/NOTES.md b/apps/scent-studio/docs/NOTES.md
@@ -432,3 +432,6 @@
 - **DESIGN.md 위치:** 규칙 이름은 `docs/DESIGN.md`지만 Windows는 대소문자를 구분하지 않아 `docs/design.md`(설계 문서)와 같은 파일이 된다 — 처음 쓸 때 설계 문서를 덮어썼다가 git에서 바로 되살림(내용 손실 없음, 커밋 전). 그래서 `docs/design/DESIGN.md`에 둔다. 다른 앱도 같은 이름 충돌을 조심.
 - 시안은 정적 HTML(`docs/design/mock.html`, 토큰은 `app/tailwind.config.js`와 같은 값) + Playwright 캡처(`docs/design/capture.mjs` → `docs/design/shots/`). 데이터는 누가 봐도 가짜인 이름만. 글자 200%는 정적 시안의 확대 흉내가 실제와 달라 5-8 실제 화면에서 확인.
 - 토큰: `tailwind.config.js`에 design.md 3-2 색 전부(라이트·다크), 글자 크기 7단계, 모서리 4/2, 최대 폭. 기존 이름(`bg`·`primary`·`ink`)은 유지, text → `ink`, textSub → `inkSub`, border → `line`(Tailwind 기본 이름과 겹치지 않게).
+- **시안 검토 반영(2026-11-11 사장, 방향 OK):** ① "이 향수" 막대 골드 → 중립 회갈색 `compare`(`#8C8275`/`#8A8378`, design.md 3-2 ★★), 골드는 "매우 비슷" 배지에만 ② 막대마다 "내 조합 44%"·"이 향수 38%" 글자 ③ 누르는 영역 48dp(칩은 보이는 36 + 영역 48, 글자 버튼 높이 48·좌우 12) ④ 노트 고르기 "2 / 3단계" 빼고 "계열: …" 표시 ⑤ 고른 칩 진한 테두리 뺌 ⑥ 다크 textSub 대비 측정(최저 4.98:1, accentSoft 위) → 그대로 ⑦ PC 조합 요약 오른쪽에 추천 미리보기 3개.
+- **글꼴 용량 실측:** Noto Serif KR 가변 ttf 23.8MB → 굵기 하나 woff2 3.1MB → 2,350자 서브셋 woff2 355KB(ttf 1.43MB). Pretendard 굵기 하나 woff2 766KB → 공식 서브셋 267KB(otf 서브셋 351KB). **정함:** 세리프는 500 하나만, 웹은 Pretendard 공식 동적 서브셋 + 세리프 서브셋 woff2를 직접 올림(외부 CDN 안 씀), 앱은 서브셋 ttf/otf 약 2.5MB. `design_rules.md` 2-1.
+- **이름 변경:** `docs/design/DESIGN.md` → `docs/design/design_rules.md`(사장 지시).

diff --git a/apps/scent-studio/docs/plan_stage5.md b/apps/scent-studio/docs/plan_stage5.md
@@ -69,7 +69,7 @@
 
 | 묶음 | 만드는 것 | 승인 테스트 | 사장 확인 |
 |---|---|---|---|
-| **5-0 ★디자인** | `docs/design/DESIGN.md`(색·글꼴·간격·버튼·다크 모드, Tailwind/NativeWind 토큰), 시안 캡처: 홈·노트 선택·요약·추천·상세 × 폰(360)·PC(1280) × 라이트·다크 | — | **★ 디자인 규칙·시안 검토(OK 전 화면 시작 안 함)** |
+| **5-0 ★디자인** | `docs/design/design_rules.md`(색·글꼴·간격·버튼·다크 모드, Tailwind/NativeWind 토큰), 시안 캡처: 홈·노트 선택·요약·추천·상세 × 폰(360)·PC(1280) × 라이트·다크 | — | **★ 디자인 규칙·시안 검토(OK 전 화면 시작 안 함)** |
 | 5-1 카탈로그 | 1-2 `dbCatalogFetch`, 1-3 샘플 생성기, 1-4 준비 스크립트, 앱 로더(해시·모양 확인, 폰에서는 앱 안 파일 읽기), 서버에서 새 버전 받기 | (부품 테스트) | 실제 카탈로그 받기 1회(서버 전용 키 사용, 미리 보기 → OK) |
 | 5-2 조합 흐름 | 홈·하단 탭(폰)/왼쪽 메뉴(PC), 계열 → 노트 선택(층당 3개·강도·검색·노트 카드) → 요약(어코드 막대·균형 안내) | A1~A10 | 화면 캡처 |
 | 5-3 추천·상세·찾기 | 추천 10개·등급 문구, 향수 상세(피라미드·비교 막대·출처), 향수 찾기, PC 목록+상세 나란히 | B1~B6, F1·F2, H5 | 화면 캡처 + **등급 문구 보여 주는 방식 질문**(미뤄 둔 항목) |

diff --git a/apps/scent-studio/docs/plan_b_portfolio.md b/apps/scent-studio/docs/plan_b_portfolio.md
@@ -147,7 +147,7 @@
 
 ### 3-1. 분류
 **공통 (그대로 진행)**
-- 단계 5 화면 전부(승인 목록 56개), 디자인(DESIGN.md), 단계 6 QA·레드팀
+- 단계 5 화면 전부(승인 목록 56개), 디자인(`docs/design/design_rules.md`), 단계 6 QA·레드팀
 - 1차 기능 7개 중 6개: 로그아웃, 동의 화면(약관·개인정보·만 14세 — Plan B는 문구를 "데모"용으로 짧게), 데이터 출처·라이선스 화면(문구는 1-7), "추천이 이상해요" 신고, 첫 실행 안내, 앱 정보
 - plan_stage4 남은 것: 6 바구니 지도 나누기(낮음), 11 동의 문구·버전 올리기, 16 OpenAPI → 앱 타입
 - 배포 전 점검: 베이스 이미지 digest 고정, CORS(웹 출처 목록)·403 모양, 로그에 토큰·이메일 없는지(서버 테스트 + Render 로그), Tomcat HTML 400 → JSON(레드팀 4번), 단계 5 항목(로그인 왕복 중 조합 유지, 깨어나는 동안 안내, 시간 초과·다시 시도, 연속 클릭 잠금, 키보드·뒤로 가기·safe area, 저사양 폰 성능)
